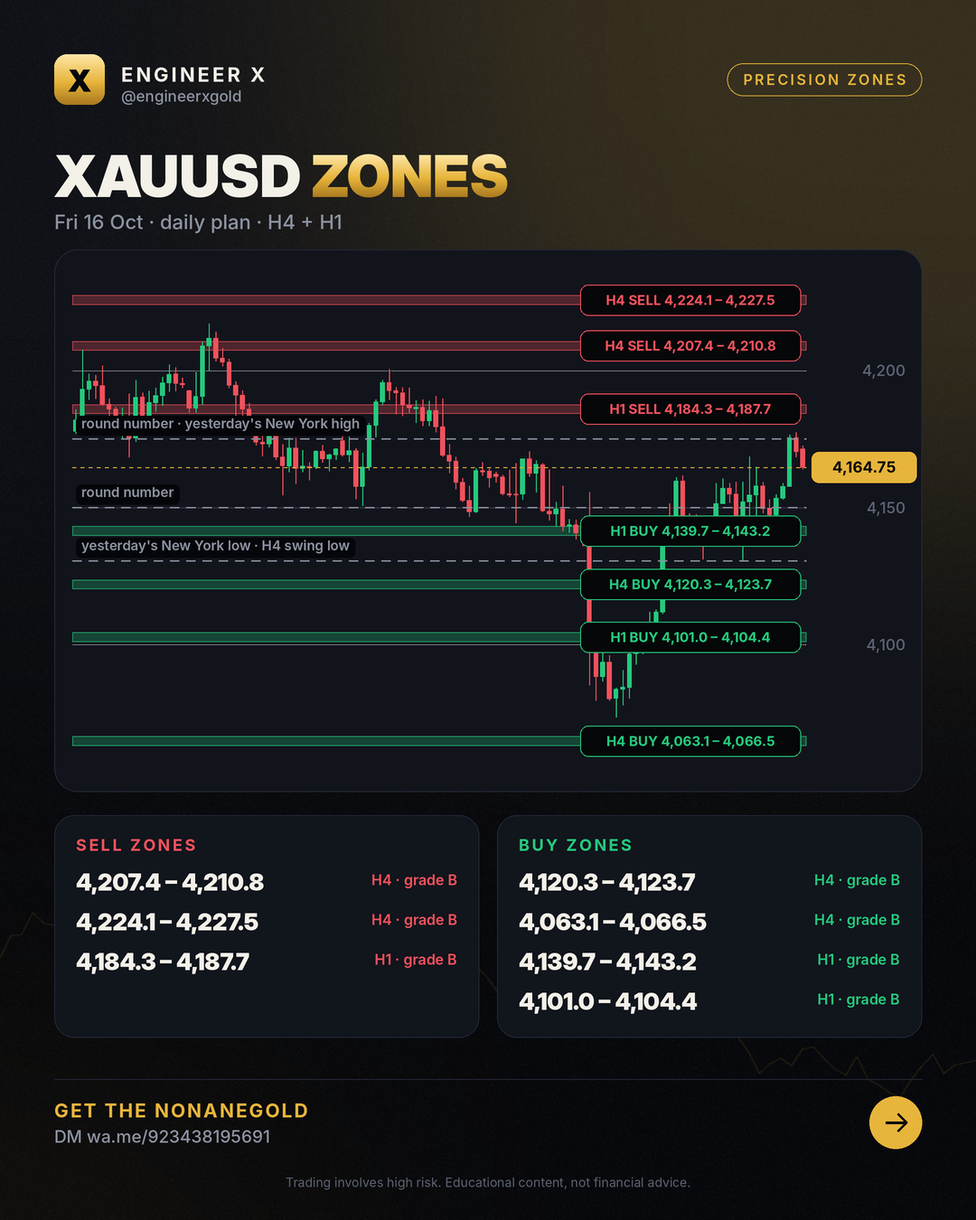
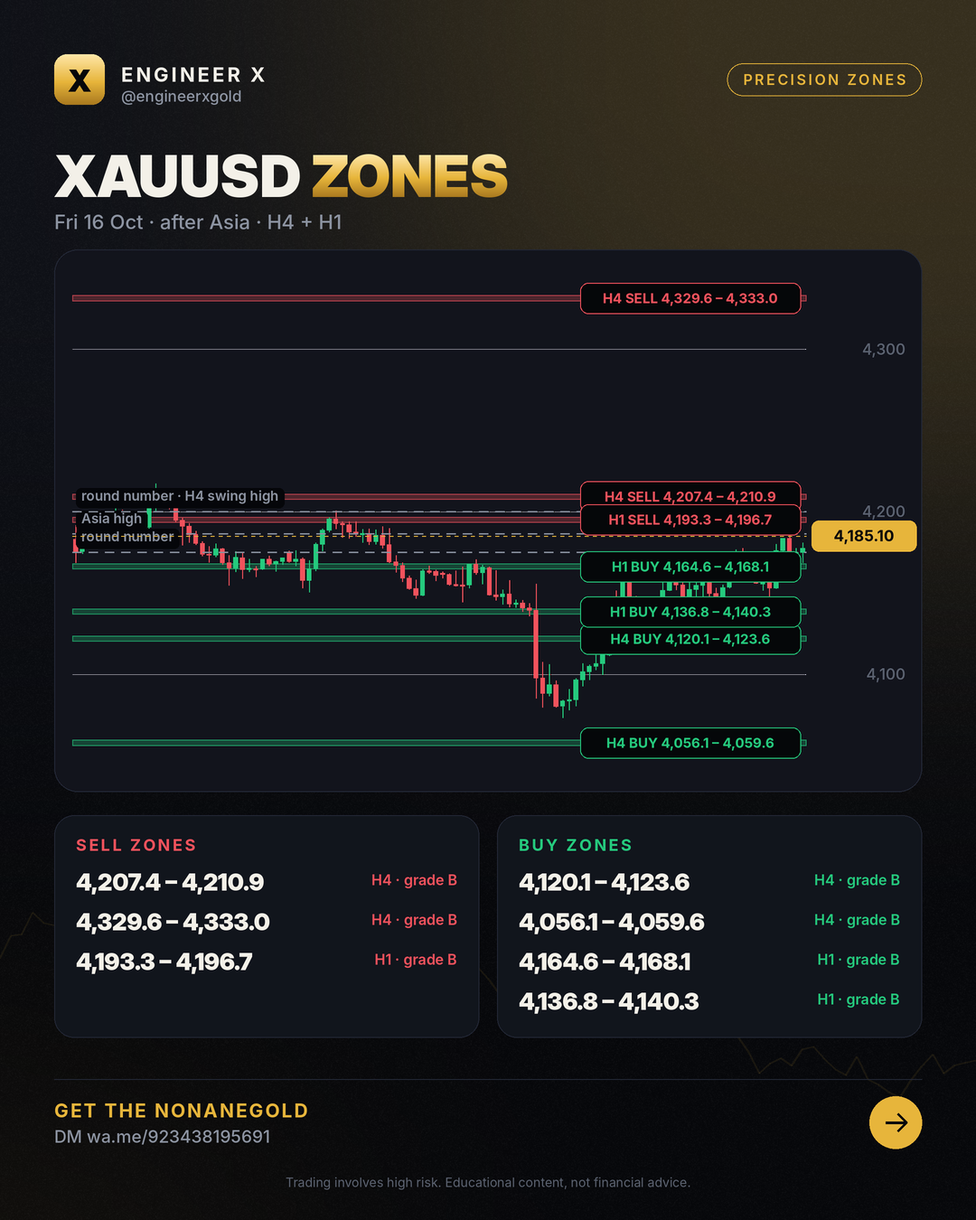
zones 2026-10-16 Fri 16 Oct · after Asia · H4 + H1

diff --git a/zones/2026-10-16/index.html b/zones/2026-10-16/index.html
@@ -4,7 +4,7 @@
 <meta charset="utf-8">
 <meta name="viewport" content="width=device-width,initial-scale=1">
 <title>Gold Forecast – 16 Oct 2026 (H4 + H1)</title>
-<meta name="description" content="XAUUSD buy and sell zones for 2026-10-16: narrow H4 and H1 bands with invalidation levels, updated after the Asian, London and New York sessions. Price 4,164.75.">
+<meta name="description" content="XAUUSD buy and sell zones for 2026-10-16: narrow H4 and H1 bands with invalidation levels, updated after the Asian, London and New York sessions. Price 4,185.10.">
 <meta name="robots" content="index,follow,max-image-preview:large,max-snippet:-1,max-video-preview:-1">
 <meta name="author" content="Engr. M Ahmad Mehmood">
 <link rel="canonical" href="https://engineerxgold.github.io/zones/2026-10-16/">
@@ -12,7 +12,7 @@
 <link rel="apple-touch-icon" href="../../img/logo.png">
 <meta property="og:site_name" content="Engineer X">
 <meta property="og:title" content="Gold Forecast – 16 Oct 2026 (H4 + H1)">
-<meta property="og:description" content="XAUUSD buy and sell zones for 2026-10-16: narrow H4 and H1 bands with invalidation levels, updated after the Asian, London and New York sessions. Price 4,164.75.">
+<meta property="og:description" content="XAUUSD buy and sell zones for 2026-10-16: narrow H4 and H1 bands with invalidation levels, updated after the Asian, London and New York sessions. Price 4,185.10.">
 <meta property="og:type" content="article">
 <meta property="og:url" content="https://engineerxgold.github.io/zones/2026-10-16/">
 <meta property="og:image" content="https://engineerxgold.github.io/zones/img/2026-10-16.png">
@@ -22,7 +22,7 @@
 <meta property="og:locale" content="en_US">
 <meta name="twitter:card" content="summary_large_image">
 <meta name="twitter:title" content="Gold Forecast – 16 Oct 2026 (H4 + H1)">
-<meta name="twitter:description" content="XAUUSD buy and sell zones for 2026-10-16: narrow H4 and H1 bands with invalidation levels, updated after the Asian, London and New York sessions. Price 4,164.75.">
+<meta name="twitter:description" content="XAUUSD buy and sell zones for 2026-10-16: narrow H4 and H1 bands with invalidation levels, updated after the Asian, London and New York sessions. Price 4,185.10.">
 <meta name="twitter:image" content="https://engineerxgold.github.io/zones/img/2026-10-16.png">
 <meta name="twitter:image:alt" content="Gold Forecast – 16 Oct 2026 (H4 + H1)">
 
@@ -32,7 +32,7 @@
 <link rel="preconnect" href="https://fonts.googleapis.com">
 <link rel="preconnect" href="https://fonts.gstatic.com" crossorigin>
 <link href="https://fonts.googleapis.com/css2?family=Inter:wght@400;500;600;800;900&display=swap" rel="stylesheet">
-<script type="application/ld+json">{"@context": "https://schema.org", "@type": "Organization", "@id": "https://engineerxgold.github.io/#organization", "name": "Engineer X", "url": "https://engineerxgold.github.io/", "logo": {"@type": "ImageObject", "url": "https://engineerxgold.github.io/img/logo.png", "width": 512, "height": 512}, "sameAs": ["https://t.me/engineerxgold"]}</script><script type="application/ld+json">{"@context": "https://schema.org", "@type": "Article", "headline": "Gold Forecast – 16 Oct 2026 (H4 + H1)", "datePublished": "2026-10-16T08:00:00+05:00", "dateModified": "2026-10-16T05:04:33+05:00", "author": {"@type": "Person", "@id": "https://engineerxgold.github.io/about/#author", "name": "Engr. M Ahmad Mehmood", "url": "https://engineerxgold.github.io/about/", "jobTitle": "MQL5 Expert Advisor developer and gold market analyst", "worksFor": {"@id": "https://engineerxgold.github.io/#organization"}}, "publisher": {"@id": "https://engineerxgold.github.io/#organization"}, "image": "https://engineerxgold.github.io/zones/img/2026-10-16.png", "mainEntityOfPage": "https://engineerxgold.github.io/zones/2026-10-16/"}</script>
+<script type="application/ld+json">{"@context": "https://schema.org", "@type": "Organization", "@id": "https://engineerxgold.github.io/#organization", "name": "Engineer X", "url": "https://engineerxgold.github.io/", "logo": {"@type": "ImageObject", "url": "https://engineerxgold.github.io/img/logo.png", "width": 512, "height": 512}, "sameAs": ["https://t.me/engineerxgold"]}</script><script type="application/ld+json">{"@context": "https://schema.org", "@type": "Article", "headline": "Gold Forecast – 16 Oct 2026 (H4 + H1)", "datePublished": "2026-10-16T08:00:00+05:00", "dateModified": "2026-10-16T12:16:10+05:00", "author": {"@type": "Person", "@id": "https://engineerxgold.github.io/about/#author", "name": "Engr. M Ahmad Mehmood", "url": "https://engineerxgold.github.io/about/", "jobTitle": "MQL5 Expert Advisor developer and gold market analyst", "worksFor": {"@id": "https://engineerxgold.github.io/#organization"}}, "publisher": {"@id": "https://engineerxgold.github.io/#organization"}, "image": "https://engineerxgold.github.io/zones/img/2026-10-16.png", "mainEntityOfPage": "https://engineerxgold.github.io/zones/2026-10-16/"}</script>
 
 <style>
 :root{--gold:#E7B53B;--gold-hi:#FFE7A8;--bg:#07080B;--bg2:#0E1016;--panel:#12151D;--line:#232836;--green:#25C97D;--red:#F0525C;--text:#F3F0E8;--muted:#8C93A1}
@@ -101,7 +101,7 @@ footer .fl a{color:var(--muted);margin-right:16px}
 <div class="wrap">
 <nav><a class="logo" href="../../"><b>X</b>Engineer X</a>
 <div class="links"><a href="../../zones/">Daily Zones</a><a href="../../blog/">Learn</a><a href="../../ea/">Gold EA</a><a href="../../about/">About</a><a class="cta" href="https://wa.me/923438195691">Get the EA</a></div></nav>
-<article><p class="crumbs"><a href="../../">Home</a> › <a href="../">Zones</a> › 2026-10-16</p><h1>Gold Forecast – 16 Oct 2026 (H4 + H1)</h1><p class="byline">Fri 16 Oct · daily plan · H4 + H1 · by Engr. M Ahmad Mehmood</p><img src="../img/2026-10-16.png" alt="XAUUSD zone map 2026-10-16" width="1080" height="1350" loading="eager"><h2>Zones</h2><div style="overflow-x:auto"><table style="width:100%;border-collapse:collapse;font-size:15px"><tr><th align=left>Zone</th><th align=left>Price band</th><th>Grade</th><th align=left>Invalid</th><th align=left>Why</th></tr><tr><td>H4 sell</td><td><b>4,207.37 – 4,210.79</b></td><td>B</td><td>above 4,217.62</td><td>beyond H4 swing high (stops rest there; sweeps often end here)</td></tr><tr><td>H4 sell</td><td><b>4,224.07 – 4,227.49</b></td><td>B</td><td>above 4,234.32</td><td>beyond H4 swing high (stops rest there; sweeps often end here)</td></tr><tr><td>H1 sell</td><td><b>4,184.27 – 4,187.69</b></td><td>B</td><td>above 4,194.52</td><td>beyond previous day high + yesterday&#x27;s New York high + round number (stops rest there; sweeps often end here)</td></tr><tr><td>H1 buy</td><td><b>4,139.74 – 4,143.16</b></td><td>B</td><td>below 4,132.91</td><td>beyond round number (stops rest there; sweeps often end here)</td></tr><tr><td>H1 buy</td><td><b>4,101.03 – 4,104.45</b></td><td>B</td><td>below 4,094.20</td><td>beyond yesterday&#x27;s Asia low (stops rest there; sweeps often end here)</td></tr><tr><td>H4 buy</td><td><b>4,120.26 – 4,123.68</b></td><td>B</td><td>below 4,113.43</td><td>beyond yesterday&#x27;s New York low + H4 swing low (stops rest there; sweeps often end here)</td></tr><tr><td>H4 buy</td><td><b>4,063.11 – 4,066.53</b></td><td>B</td><td>below 4,056.28</td><td>beyond H4 swing low (stops rest there; sweeps often end here)</td></tr></table></div><h2>How to read this map</h2><p>Bands are where price is expected to react; they are not entries. An hourly close beyond the invalidation price ends the zone. Obvious highs and lows (listed as liquidity) are often swept first, so our zones sit just beyond them.</p><div class="ctabox"><h3>🤖 Trade the zones with the NonaneGold</h3><p>Free signals group access + setup help Message us and we will help you set it up.</p><div class="btns"><a class="btn gold" href="https://wa.me/923438195691">Get the EA on Telegram</a><a class="btn ghost" href="../../ea/">About the EA</a></div></div></article>
+<article><p class="crumbs"><a href="../../">Home</a> › <a href="../">Zones</a> › 2026-10-16</p><h1>Gold Forecast – 16 Oct 2026 (H4 + H1)</h1><p class="byline">Fri 16 Oct · after Asia · H4 + H1 · by Engr. M Ahmad Mehmood</p><img src="../img/2026-10-16.png" alt="XAUUSD zone map 2026-10-16" width="1080" height="1350" loading="eager"><h2>Zones</h2><div style="overflow-x:auto"><table style="width:100%;border-collapse:collapse;font-size:15px"><tr><th align=left>Zone</th><th align=left>Price band</th><th>Grade</th><th align=left>Invalid</th><th align=left>Why</th></tr><tr><td>H4 sell</td><td><b>4,207.45 – 4,210.91</b></td><td>B</td><td>above 4,217.84</td><td>beyond H4 swing high + round number (stops rest there; sweeps often end here)</td></tr><tr><td>H4 sell</td><td><b>4,329.57 – 4,333.03</b></td><td>B</td><td>above 4,370.48</td><td>H4 origin; 2-candle departure; fresh; sits just beyond H4 swing high (sweep zone)</td></tr><tr><td>H1 sell</td><td><b>4,193.28 – 4,196.74</b></td><td>B</td><td>above 4,203.67</td><td>beyond Asia high (stops rest there; sweeps often end here)</td></tr><tr><td>H1 buy</td><td><b>4,164.62 – 4,168.08</b></td><td>B</td><td>below 4,157.69</td><td>beyond round number (stops rest there; sweeps often end here)</td></tr><tr><td>H1 buy</td><td><b>4,136.81 – 4,140.27</b></td><td>B</td><td>below 4,129.88</td><td>beyond Asia low (stops rest there; sweeps often end here)</td></tr><tr><td>H4 buy</td><td><b>4,120.14 – 4,123.60</b></td><td>B</td><td>below 4,113.21</td><td>beyond yesterday&#x27;s New York low + H4 swing low (stops rest there; sweeps often end here)</td></tr><tr><td>H4 buy</td><td><b>4,056.10 – 4,059.56</b></td><td>B</td><td>below 4,049.17</td><td>beyond H4 swing low (stops rest there; sweeps often end here)</td></tr></table></div><h2>How to read this map</h2><p>Bands are where price is expected to react; they are not entries. An hourly close beyond the invalidation price ends the zone. Obvious highs and lows (listed as liquidity) are often swept first, so our zones sit just beyond them.</p><div class="ctabox"><h3>🤖 Trade the zones with the NonaneGold</h3><p>Free signals group access + setup help Message us and we will help you set it up.</p><div class="btns"><a class="btn gold" href="https://wa.me/923438195691">Get the EA on Telegram</a><a class="btn ghost" href="../../ea/">About the EA</a></div></div></article>
 <footer>
 <div class="warn"><b>Risk warning:</b> Trading gold, forex and CFDs carries a high risk of losing money and is not suitable for everyone. Past results do not guarantee future results. Everything on this site is educational and not financial advice. We are an introducing partner of our broker and may earn a commission on accounts opened through our link.</div>
 <p class="fl" style="margin-top:18px"><a href="../../about/">About &amp; methodology</a><a href="../../privacy.html">Privacy</a><a href="../../terms.html">Terms &amp; risk disclosure</a><a href="../../feed.xml">RSS</a><a href="https://t.me/engineerxgold">Telegram</a></p>

diff --git a/zones/index.html b/zones/index.html
@@ -4,7 +4,7 @@
 <meta charset="utf-8">
 <meta name="viewport" content="width=device-width,initial-scale=1">
 <title>XAUUSD Zones Today – Buy &amp; Sell Zones (H4, H1) | Engineer X</title>
-<meta name="description" content="XAUUSD buy and sell zones for 2026-10-16: narrow H4 and H1 bands with invalidation levels, updated after the Asian, London and New York sessions. Price 4,164.75.">
+<meta name="description" content="XAUUSD buy and sell zones for 2026-10-16: narrow H4 and H1 bands with invalidation levels, updated after the Asian, London and New York sessions. Price 4,185.10.">
 <meta name="robots" content="index,follow,max-image-preview:large,max-snippet:-1,max-video-preview:-1">
 <meta name="author" content="Engr. M Ahmad Mehmood">
 <link rel="canonical" href="https://engineerxgold.github.io/zones/">
@@ -12,7 +12,7 @@
 <link rel="apple-touch-icon" href="../img/logo.png">
 <meta property="og:site_name" content="Engineer X">
 <meta property="og:title" content="XAUUSD Zones Today – Buy &amp; Sell Zones (H4, H1) | Engineer X">
-<meta property="og:description" content="XAUUSD buy and sell zones for 2026-10-16: narrow H4 and H1 bands with invalidation levels, updated after the Asian, London and New York sessions. Price 4,164.75.">
+<meta property="og:description" content="XAUUSD buy and sell zones for 2026-10-16: narrow H4 and H1 bands with invalidation levels, updated after the Asian, London and New York sessions. Price 4,185.10.">
 <meta property="og:type" content="website">
 <meta property="og:url" content="https://engineerxgold.github.io/zones/">
 <meta property="og:image" content="https://engineerxgold.github.io/zones/img/2026-10-16.png">
@@ -22,7 +22,7 @@
 <meta property="og:locale" content="en_US">
 <meta name="twitter:card" content="summary_large_image">
 <meta name="twitter:title" content="XAUUSD Zones Today – Buy &amp; Sell Zones (H4, H1) | Engineer X">
-<meta name="twitter:description" content="XAUUSD buy and sell zones for 2026-10-16: narrow H4 and H1 bands with invalidation levels, updated after the Asian, London and New York sessions. Price 4,164.75.">
+<meta name="twitter:description" content="XAUUSD buy and sell zones for 2026-10-16: narrow H4 and H1 bands with invalidation levels, updated after the Asian, London and New York sessions. Price 4,185.10.">
 <meta name="twitter:image" content="https://engineerxgold.github.io/zones/img/2026-10-16.png">
 <meta name="twitter:image:alt" content="XAUUSD Zones Today – Buy &amp; Sell Zones (H4, H1) | Engineer X">
 
@@ -101,7 +101,7 @@ footer .fl a{color:var(--muted);margin-right:16px}
 <div class="wrap">
 <nav><a class="logo" href="../"><b>X</b>Engineer X</a>
 <div class="links"><a href="../zones/">Daily Zones</a><a href="../blog/">Learn</a><a href="../ea/">Gold EA</a><a href="../about/">About</a><a class="cta" href="https://wa.me/923438195691">Get the EA</a></div></nav>
-<section class="hero"><span class="chip">Updated Fri 16 Oct · daily plan · H4 + H1</span><h1>XAUUSD <span class="gold">precision zones</span></h1><p>XAUUSD buy and sell zones for 2026-10-16: narrow H4 and H1 bands with invalidation levels, updated after the Asian, London and New York sessions. Price 4,164.75.</p></section><img src="img/2026-10-16.png" alt="Latest XAUUSD zone map" width="1080" height="1350"><section><h2>Current zones</h2><div style="overflow-x:auto"><table style="width:100%;border-collapse:collapse;font-size:15px"><tr><th align=left>Zone</th><th align=left>Price band</th><th>Grade</th><th align=left>Invalid</th><th align=left>Why</th></tr><tr><td>H4 sell</td><td><b>4,207.37 – 4,210.79</b></td><td>B</td><td>above 4,217.62</td><td>beyond H4 swing high (stops rest there; sweeps often end here)</td></tr><tr><td>H4 sell</td><td><b>4,224.07 – 4,227.49</b></td><td>B</td><td>above 4,234.32</td><td>beyond H4 swing high (stops rest there; sweeps often end here)</td></tr><tr><td>H1 sell</td><td><b>4,184.27 – 4,187.69</b></td><td>B</td><td>above 4,194.52</td><td>beyond previous day high + yesterday&#x27;s New York high + round number (stops rest there; sweeps often end here)</td></tr><tr><td>H1 buy</td><td><b>4,139.74 – 4,143.16</b></td><td>B</td><td>below 4,132.91</td><td>beyond round number (stops rest there; sweeps often end here)</td></tr><tr><td>H1 buy</td><td><b>4,101.03 – 4,104.45</b></td><td>B</td><td>below 4,094.20</td><td>beyond yesterday&#x27;s Asia low (stops rest there; sweeps often end here)</td></tr><tr><td>H4 buy</td><td><b>4,120.26 – 4,123.68</b></td><td>B</td><td>below 4,113.43</td><td>beyond yesterday&#x27;s New York low + H4 swing low (stops rest there; sweeps often end here)</td></tr><tr><td>H4 buy</td><td><b>4,063.11 – 4,066.53</b></td><td>B</td><td>below 4,056.28</td><td>beyond H4 swing low (stops rest there; sweeps often end here)</td></tr></table></div></section><section><h2>Honest scorecard</h2><div class="grid"><div class="card"><div class="n">79</div><p>zones published (30 days)</p></div><div class="card"><div class="n">26</div><p>held (moved 1 hourly ATR away)</p></div><div class="card"><div class="n">3</div><p>broke (hourly close beyond invalidation)</p></div><div class="card"><div class="n">90%</div><p>hold rate of decided zones</p></div></div></section><div class="ctabox"><h3>🤖 Trade the zones with the NonaneGold</h3><p>Free signals group access + setup help Message us and we will help you set it up.</p><div class="btns"><a class="btn gold" href="https://wa.me/923438195691">Get the EA on Telegram</a><a class="btn ghost" href="../ea/">About the EA</a></div></div><section><h2>Archive</h2><div class="grid posts"><a class="card" href="2026-10-16/"><span class="date">2026-10-16</span><h3>XAUUSD zones 2026-10-16</h3></a><a class="card" href="2026-10-15/"><span class="date">2026-10-15</span><h3>XAUUSD zones 2026-10-15</h3></a><a class="card" href="2026-10-14/"><span class="date">2026-10-14</span><h3>XAUUSD zones 2026-10-14</h3></a><a class="card" href="2026-10-13/"><span class="date">2026-10-13</span><h3>XAUUSD zones 2026-10-13</h3></a></div></section>
+<section class="hero"><span class="chip">Updated Fri 16 Oct · after Asia · H4 + H1</span><h1>XAUUSD <span class="gold">precision zones</span></h1><p>XAUUSD buy and sell zones for 2026-10-16: narrow H4 and H1 bands with invalidation levels, updated after the Asian, London and New York sessions. Price 4,185.10.</p></section><img src="img/2026-10-16.png" alt="Latest XAUUSD zone map" width="1080" height="1350"><section><h2>Current zones</h2><div style="overflow-x:auto"><table style="width:100%;border-collapse:collapse;font-size:15px"><tr><th align=left>Zone</th><th align=left>Price band</th><th>Grade</th><th align=left>Invalid</th><th align=left>Why</th></tr><tr><td>H4 sell</td><td><b>4,207.45 – 4,210.91</b></td><td>B</td><td>above 4,217.84</td><td>beyond H4 swing high + round number (stops rest there; sweeps often end here)</td></tr><tr><td>H4 sell</td><td><b>4,329.57 – 4,333.03</b></td><td>B</td><td>above 4,370.48</td><td>H4 origin; 2-candle departure; fresh; sits just beyond H4 swing high (sweep zone)</td></tr><tr><td>H1 sell</td><td><b>4,193.28 – 4,196.74</b></td><td>B</td><td>above 4,203.67</td><td>beyond Asia high (stops rest there; sweeps often end here)</td></tr><tr><td>H1 buy</td><td><b>4,164.62 – 4,168.08</b></td><td>B</td><td>below 4,157.69</td><td>beyond round number (stops rest there; sweeps often end here)</td></tr><tr><td>H1 buy</td><td><b>4,136.81 – 4,140.27</b></td><td>B</td><td>below 4,129.88</td><td>beyond Asia low (stops rest there; sweeps often end here)</td></tr><tr><td>H4 buy</td><td><b>4,120.14 – 4,123.60</b></td><td>B</td><td>below 4,113.21</td><td>beyond yesterday&#x27;s New York low + H4 swing low (stops rest there; sweeps often end here)</td></tr><tr><td>H4 buy</td><td><b>4,056.10 – 4,059.56</b></td><td>B</td><td>below 4,049.17</td><td>beyond H4 swing low (stops rest there; sweeps often end here)</td></tr></table></div></section><section><h2>Honest scorecard</h2><div class="grid"><div class="card"><div class="n">86</div><p>zones published (30 days)</p></div><div class="card"><div class="n">36</div><p>held (moved 1 hourly ATR away)</p></div><div class="card"><div class="n">3</div><p>broke (hourly close beyond invalidation)</p></div><div class="card"><div class="n">92%</div><p>hold rate of decided zones</p></div></div></section><div class="ctabox"><h3>🤖 Trade the zones with the NonaneGold</h3><p>Free signals group access + setup help Message us and we will help you set it up.</p><div class="btns"><a class="btn gold" href="https://wa.me/923438195691">Get the EA on Telegram</a><a class="btn ghost" href="../ea/">About the EA</a></div></div><section><h2>Archive</h2><div class="grid posts"><a class="card" href="2026-10-16/"><span class="date">2026-10-16</span><h3>XAUUSD zones 2026-10-16</h3></a><a class="card" href="2026-10-15/"><span class="date">2026-10-15</span><h3>XAUUSD zones 2026-10-15</h3></a><a class="card" href="2026-10-14/"><span class="date">2026-10-14</span><h3>XAUUSD zones 2026-10-14</h3></a><a class="card" href="2026-10-13/"><span class="date">2026-10-13</span><h3>XAUUSD zones 2026-10-13</h3></a></div></section>
 <footer>
 <div class="warn"><b>Risk warning:</b> Trading gold, forex and CFDs carries a high risk of losing money and is not suitable for everyone. Past results do not guarantee future results. Everything on this site is educational and not financial advice. We are an introducing partner of our broker and may earn a commission on accounts opened through our link.</div>
 <p class="fl" style="margin-top:18px"><a href="../about/">About &amp; methodology</a><a href="../privacy.html">Privacy</a><a href="../terms.html">Terms &amp; risk disclosure</a><a href="../feed.xml">RSS</a><a href="https://t.me/engineerxgold">Telegram</a></p>

diff --git a/index.html b/index.html
@@ -101,7 +101,7 @@ footer .fl a{color:var(--muted);margin-right:16px}
 <div class="wrap">
 <nav><a class="logo" href="./"><b>X</b>Engineer X</a>
 <div class="links"><a href="./zones/">Daily Zones</a><a href="./blog/">Learn</a><a href="./ea/">Gold EA</a><a href="./about/">About</a><a class="cta" href="https://wa.me/923438195691">Get the EA</a></div></nav>
-<section class="hero"><span class="chip">XAUUSD · H4 + H1 · every session</span><h1>Gold <span class="gold">precision zones</span>, updated after every session</h1><p>Narrow buy and sell zones with clear invalidation, a scorecard of every result, and the NonaneGold for traders who want it automated.</p><div class="btns"><a class="btn gold" href="zones/">See today's zones</a><a class="btn ghost" href="https://wa.me/923438195691">Get the EA</a></div></section><section><h2>Latest map Fri 16 Oct · daily plan · H4 + H1</h2><img src="zones/img/2026-10-16.png" alt="Latest XAUUSD zones" width="1080" height="1350"></section><div class="ctabox"><h3>🤖 Trade the zones with the NonaneGold</h3><p>Free signals group access + setup help Message us and we will help you set it up.</p><div class="btns"><a class="btn gold" href="https://wa.me/923438195691">Get the EA on Telegram</a><a class="btn ghost" href="ea/">About the EA</a></div></div><section><h2>Learn</h2><div class="grid posts"><a class="card" href="blog/gold-trading-h4-trend-and-live-market-zones-map/"><span class="date">2026-10-16</span><h3>Gold Trading: H4 Trend and Live Market Zones Map</h3></a><a class="card" href="blog/gold-price-today-navigating-h4-downtrend-key-zones/"><span class="date">2026-10-15</span><h3>Gold Price Today: Navigating H4 Downtrend &amp; Key Zones</h3></a><a class="card" href="blog/gold-supply-and-demand-zones-h4-h1-trading-map/"><span class="date">2026-10-14</span><h3>Gold Supply and Demand Zones: H4 &amp; H1 Trading Map</h3></a><a class="card" href="blog/gold-trading-strategy-for-zones-and-liquidity-in-xauusd/"><span class="date">2026-10-13</span><h3>Gold trading strategy for zones and liquidity in XAUUSD</h3></a><a class="card" href="blog/stop-loss-ke-baghair-trading-ticket-bina-safar/"><span class="date">2026-10-07</span><h3>Stop loss ke baghair trading = ticket bina safar</h3></a><a class="card" href="blog/gold-ke-3-sab-se-active-sessions/"><span class="date">2026-10-07</span><h3>Gold ke 3 sab se active sessions</h3></a></div></section><section><h2>FAQ</h2><details><summary>What is a precision zone?</summary><p>A narrow price band (about a quarter of the hourly range) where gold started a strong move or where a sweep of obvious liquidity usually ends. Each zone has an invalidation price.</p></details><details><summary>How often are the zones updated?</summary><p>A daily plan at the Asian open, then after the Asian, London and New York sessions.</p></details><details><summary>Are these trade signals?</summary><p>No. Zones are areas to watch. Wait for your own confirmation and manage risk.</p></details><details><summary>How do I get the Gold EA?</summary><p>Message us on Telegram or WhatsApp; we answer and help with the setup.</p></details></section>
+<section class="hero"><span class="chip">XAUUSD · H4 + H1 · every session</span><h1>Gold <span class="gold">precision zones</span>, updated after every session</h1><p>Narrow buy and sell zones with clear invalidation, a scorecard of every result, and the NonaneGold for traders who want it automated.</p><div class="btns"><a class="btn gold" href="zones/">See today's zones</a><a class="btn ghost" href="https://wa.me/923438195691">Get the EA</a></div></section><section><h2>Latest map Fri 16 Oct · after Asia · H4 + H1</h2><img src="zones/img/2026-10-16.png" alt="Latest XAUUSD zones" width="1080" height="1350"></section><div class="ctabox"><h3>🤖 Trade the zones with the NonaneGold</h3><p>Free signals group access + setup help Message us and we will help you set it up.</p><div class="btns"><a class="btn gold" href="https://wa.me/923438195691">Get the EA on Telegram</a><a class="btn ghost" href="ea/">About the EA</a></div></div><section><h2>Learn</h2><div class="grid posts"><a class="card" href="blog/gold-trading-h4-trend-and-live-market-zones-map/"><span class="date">2026-10-16</span><h3>Gold Trading: H4 Trend and Live Market Zones Map</h3></a><a class="card" href="blog/gold-price-today-navigating-h4-downtrend-key-zones/"><span class="date">2026-10-15</span><h3>Gold Price Today: Navigating H4 Downtrend &amp; Key Zones</h3></a><a class="card" href="blog/gold-supply-and-demand-zones-h4-h1-trading-map/"><span class="date">2026-10-14</span><h3>Gold Supply and Demand Zones: H4 &amp; H1 Trading Map</h3></a><a class="card" href="blog/gold-trading-strategy-for-zones-and-liquidity-in-xauusd/"><span class="date">2026-10-13</span><h3>Gold trading strategy for zones and liquidity in XAUUSD</h3></a><a class="card" href="blog/stop-loss-ke-baghair-trading-ticket-bina-safar/"><span class="date">2026-10-07</span><h3>Stop loss ke baghair trading = ticket bina safar</h3></a><a class="card" href="blog/gold-ke-3-sab-se-active-sessions/"><span class="date">2026-10-07</span><h3>Gold ke 3 sab se active sessions</h3></a></div></section><section><h2>FAQ</h2><details><summary>What is a precision zone?</summary><p>A narrow price band (about a quarter of the hourly range) where gold started a strong move or where a sweep of obvious liquidity usually ends. Each zone has an invalidation price.</p></details><details><summary>How often are the zones updated?</summary><p>A daily plan at the Asian open, then after the Asian, London and New York sessions.</p></details><details><summary>Are these trade signals?</summary><p>No. Zones are areas to watch. Wait for your own confirmation and manage risk.</p></details><details><summary>How do I get the Gold EA?</summary><p>Message us on Telegram or WhatsApp; we answer and help with the setup.</p></details></section>
 <footer>
 <div class="warn"><b>Risk warning:</b> Trading gold, forex and CFDs carries a high risk of losing money and is not suitable for everyone. Past results do not guarantee future results. Everything on this site is educational and not financial advice. We are an introducing partner of our broker and may earn a commission on accounts opened through our link.</div>
 <p class="fl" style="margin-top:18px"><a href="./about/">About &amp; methodology</a><a href="./privacy.html">Privacy</a><a href="./terms.html">Terms &amp; risk disclosure</a><a href="./feed.xml">RSS</a><a href="https://t.me/engineerxgold">Telegram</a></p>
